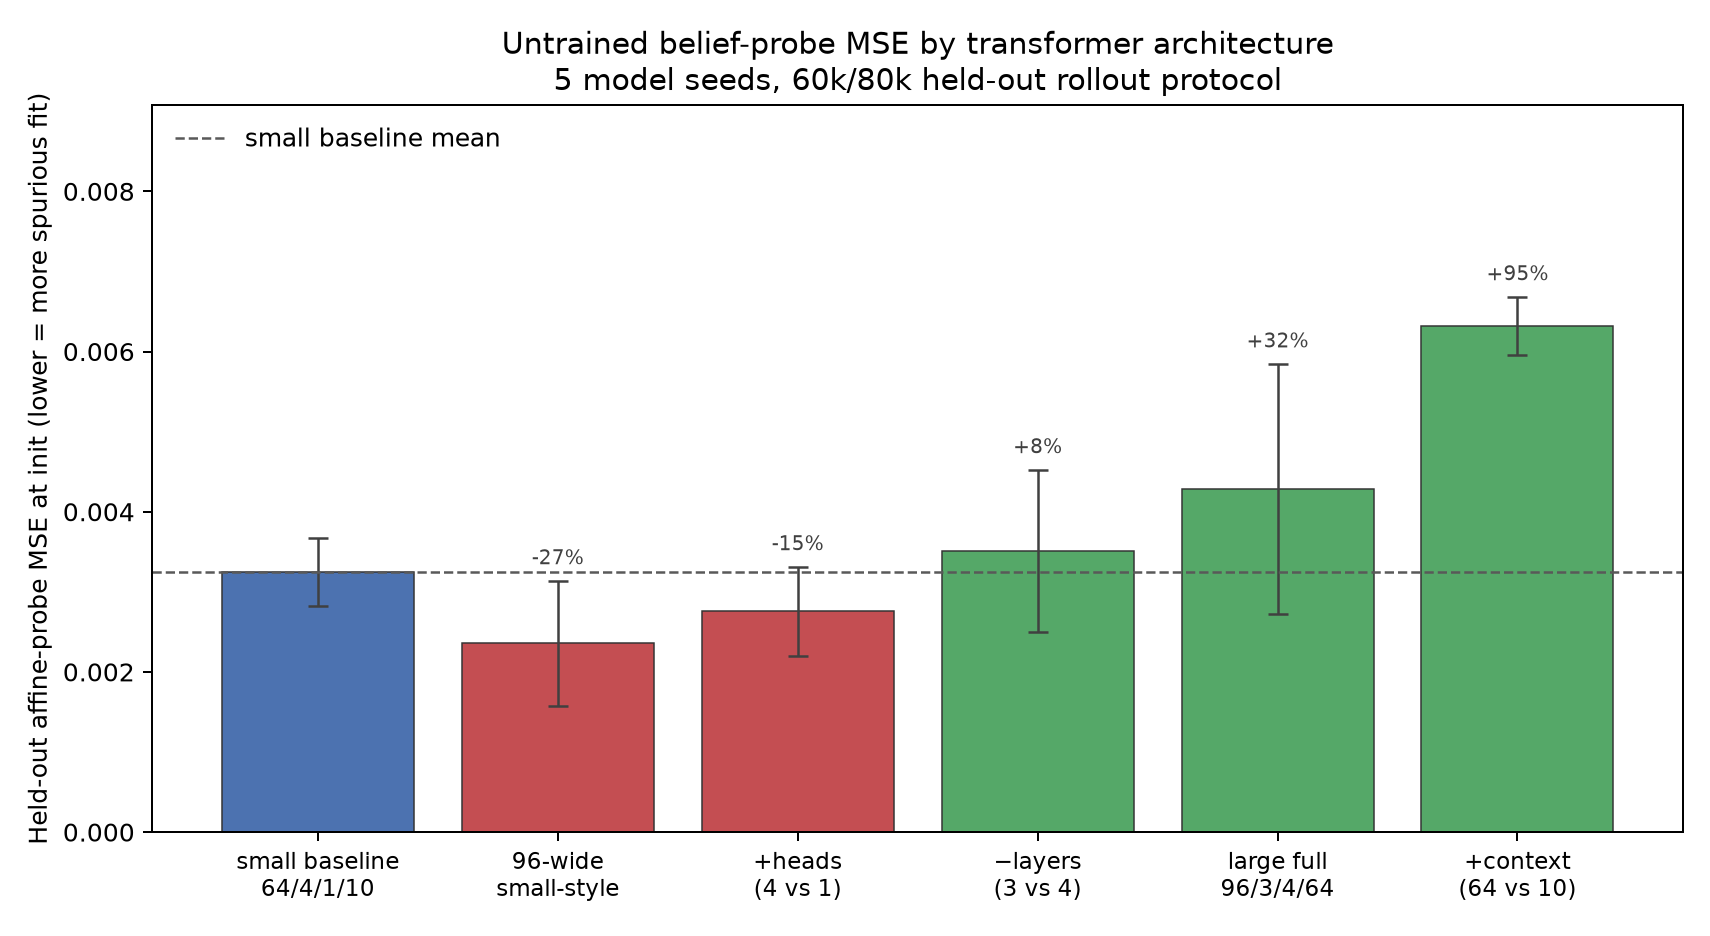
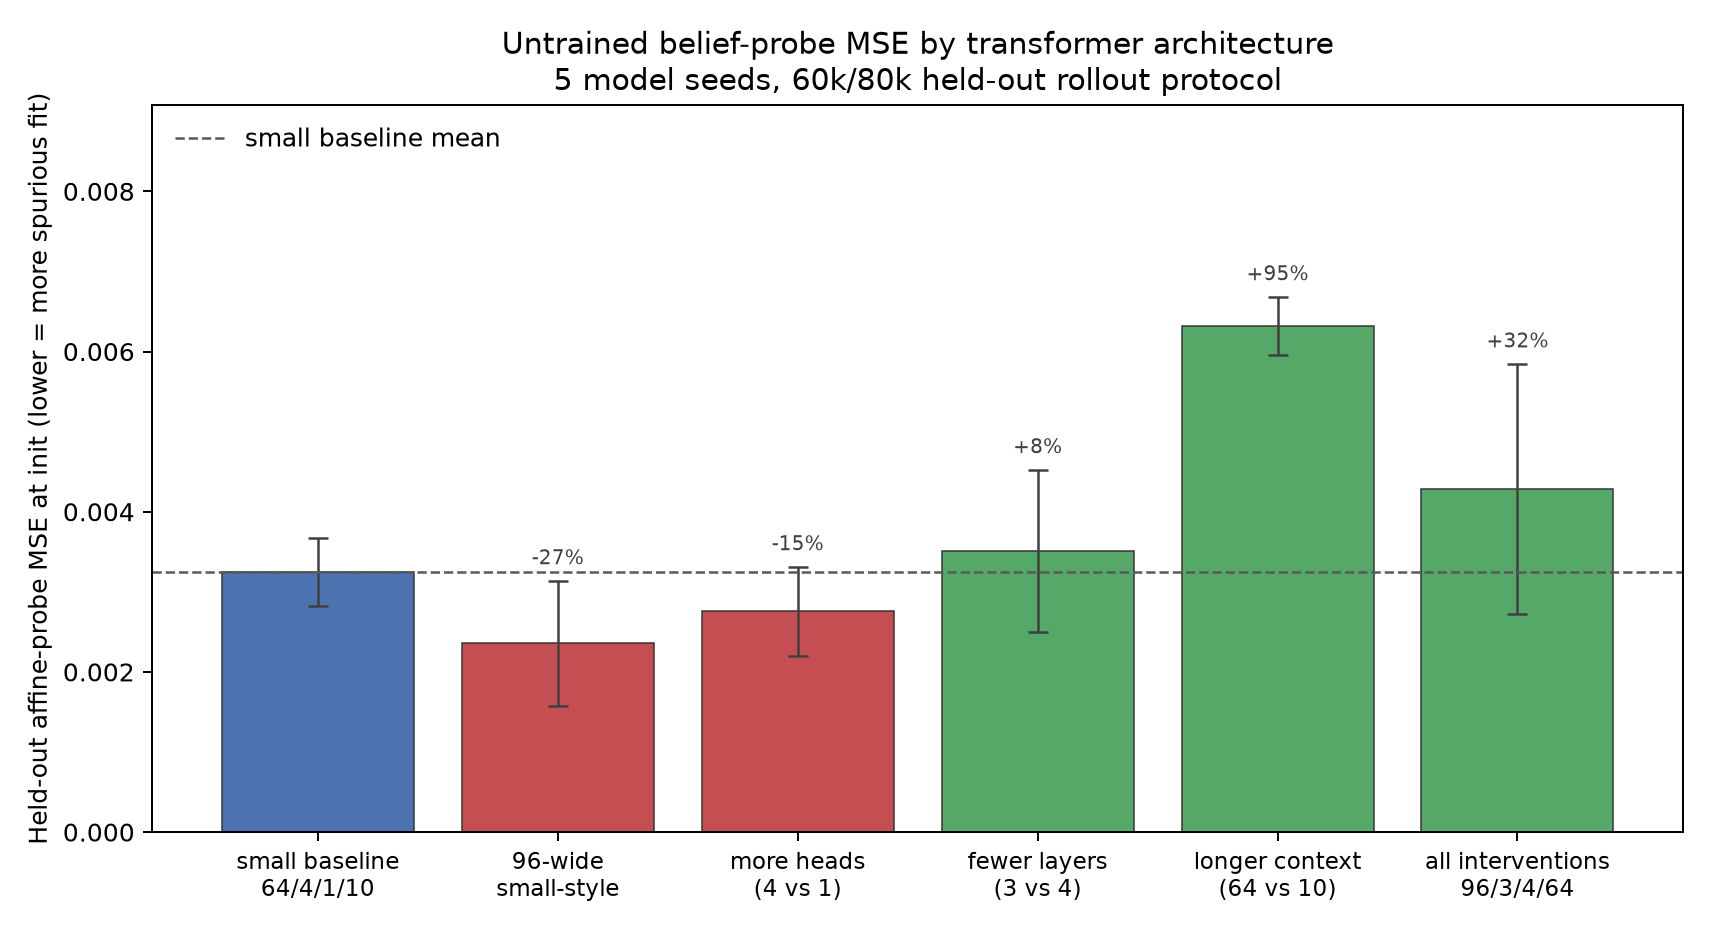
Polish init ablation figure labels and fix context guidance.
Reorder bars, rename single-factor interventions for clarity, label the
combined trunk as all interventions, and correct longer-context advice in
findings.

diff --git a/experiments/mess3_untrained_transformer_probe_ablation_2026_08/plot_init_ablation.py b/experiments/mess3_untrained_transformer_probe_ablation_2026_08/plot_init_ablation.py
@@ -21,16 +21,16 @@ DISPLAY_ORDER = (
     "width96_small_style",
     "ablate_heads",
     "ablate_layers",
-    "large_full",
     "ablate_context",
+    "large_full",
 )
 SHORT_LABELS = {
     "small_baseline": "small baseline\n64/4/1/10",
     "width96_small_style": "96-wide\nsmall-style",
-    "ablate_heads": "+heads\n(4 vs 1)",
-    "ablate_layers": "−layers\n(3 vs 4)",
-    "ablate_context": "+context\n(64 vs 10)",
-    "large_full": "large full\n96/3/4/64",
+    "ablate_heads": "more heads\n(4 vs 1)",
+    "ablate_layers": "fewer layers\n(3 vs 4)",
+    "ablate_context": "longer context\n(64 vs 10)",
+    "large_full": "all interventions\n96/3/4/64",
 }
 
 

diff --git a/experiments/mess3_untrained_transformer_probe_ablation_2026_08/findings.md b/experiments/mess3_untrained_transformer_probe_ablation_2026_08/findings.md
@@ -144,9 +144,10 @@ Otherwise the ranking by mean is stable.
    the probe before training precisely because the affine decoder has more degrees
    of freedom — not because belief geometry is already present.
 
-2. **Prefer shorter context bands when init probe numbers must be conservative,**
+2. **Prefer longer context bands when init probe numbers must be conservative,**
    if architectural choice is still open. Context 64 nearly doubles init MSE
-   relative to baseline, making spurious wins harder.
+   relative to the small baseline, making spurious low-MSE wins harder. The
+   default small band (10) is more permissive to the probe, not more conservative.
 
 3. **Cross-architecture init comparisons confound width with context and depth.**
    The small-vs-large gap is explained here as opposing effects, not a simple
